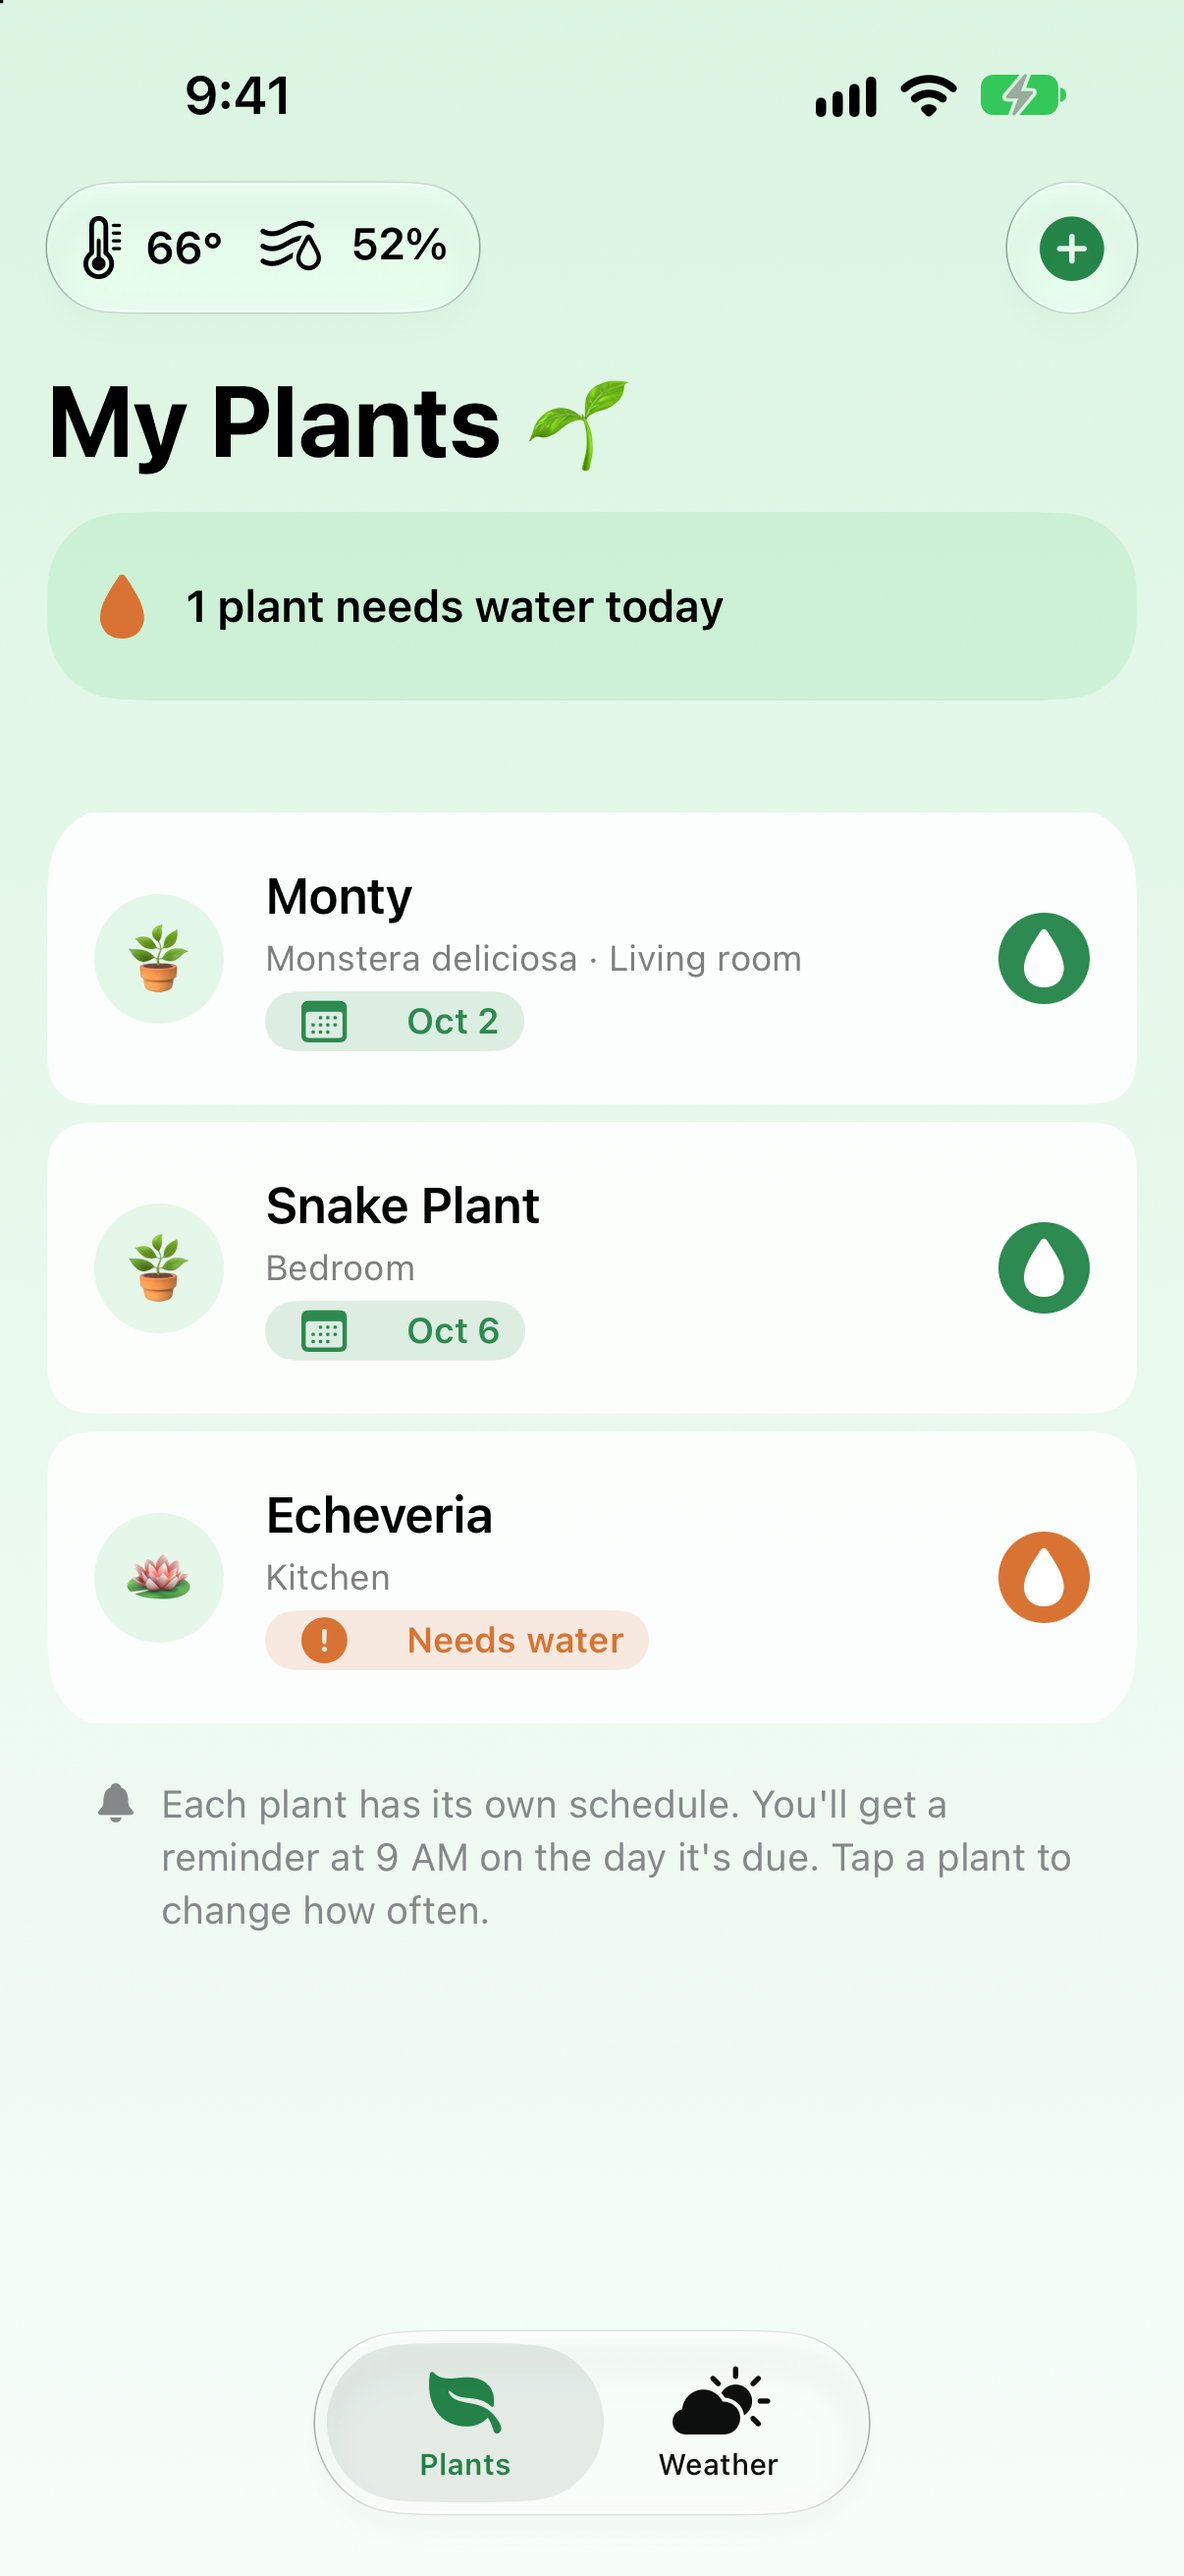
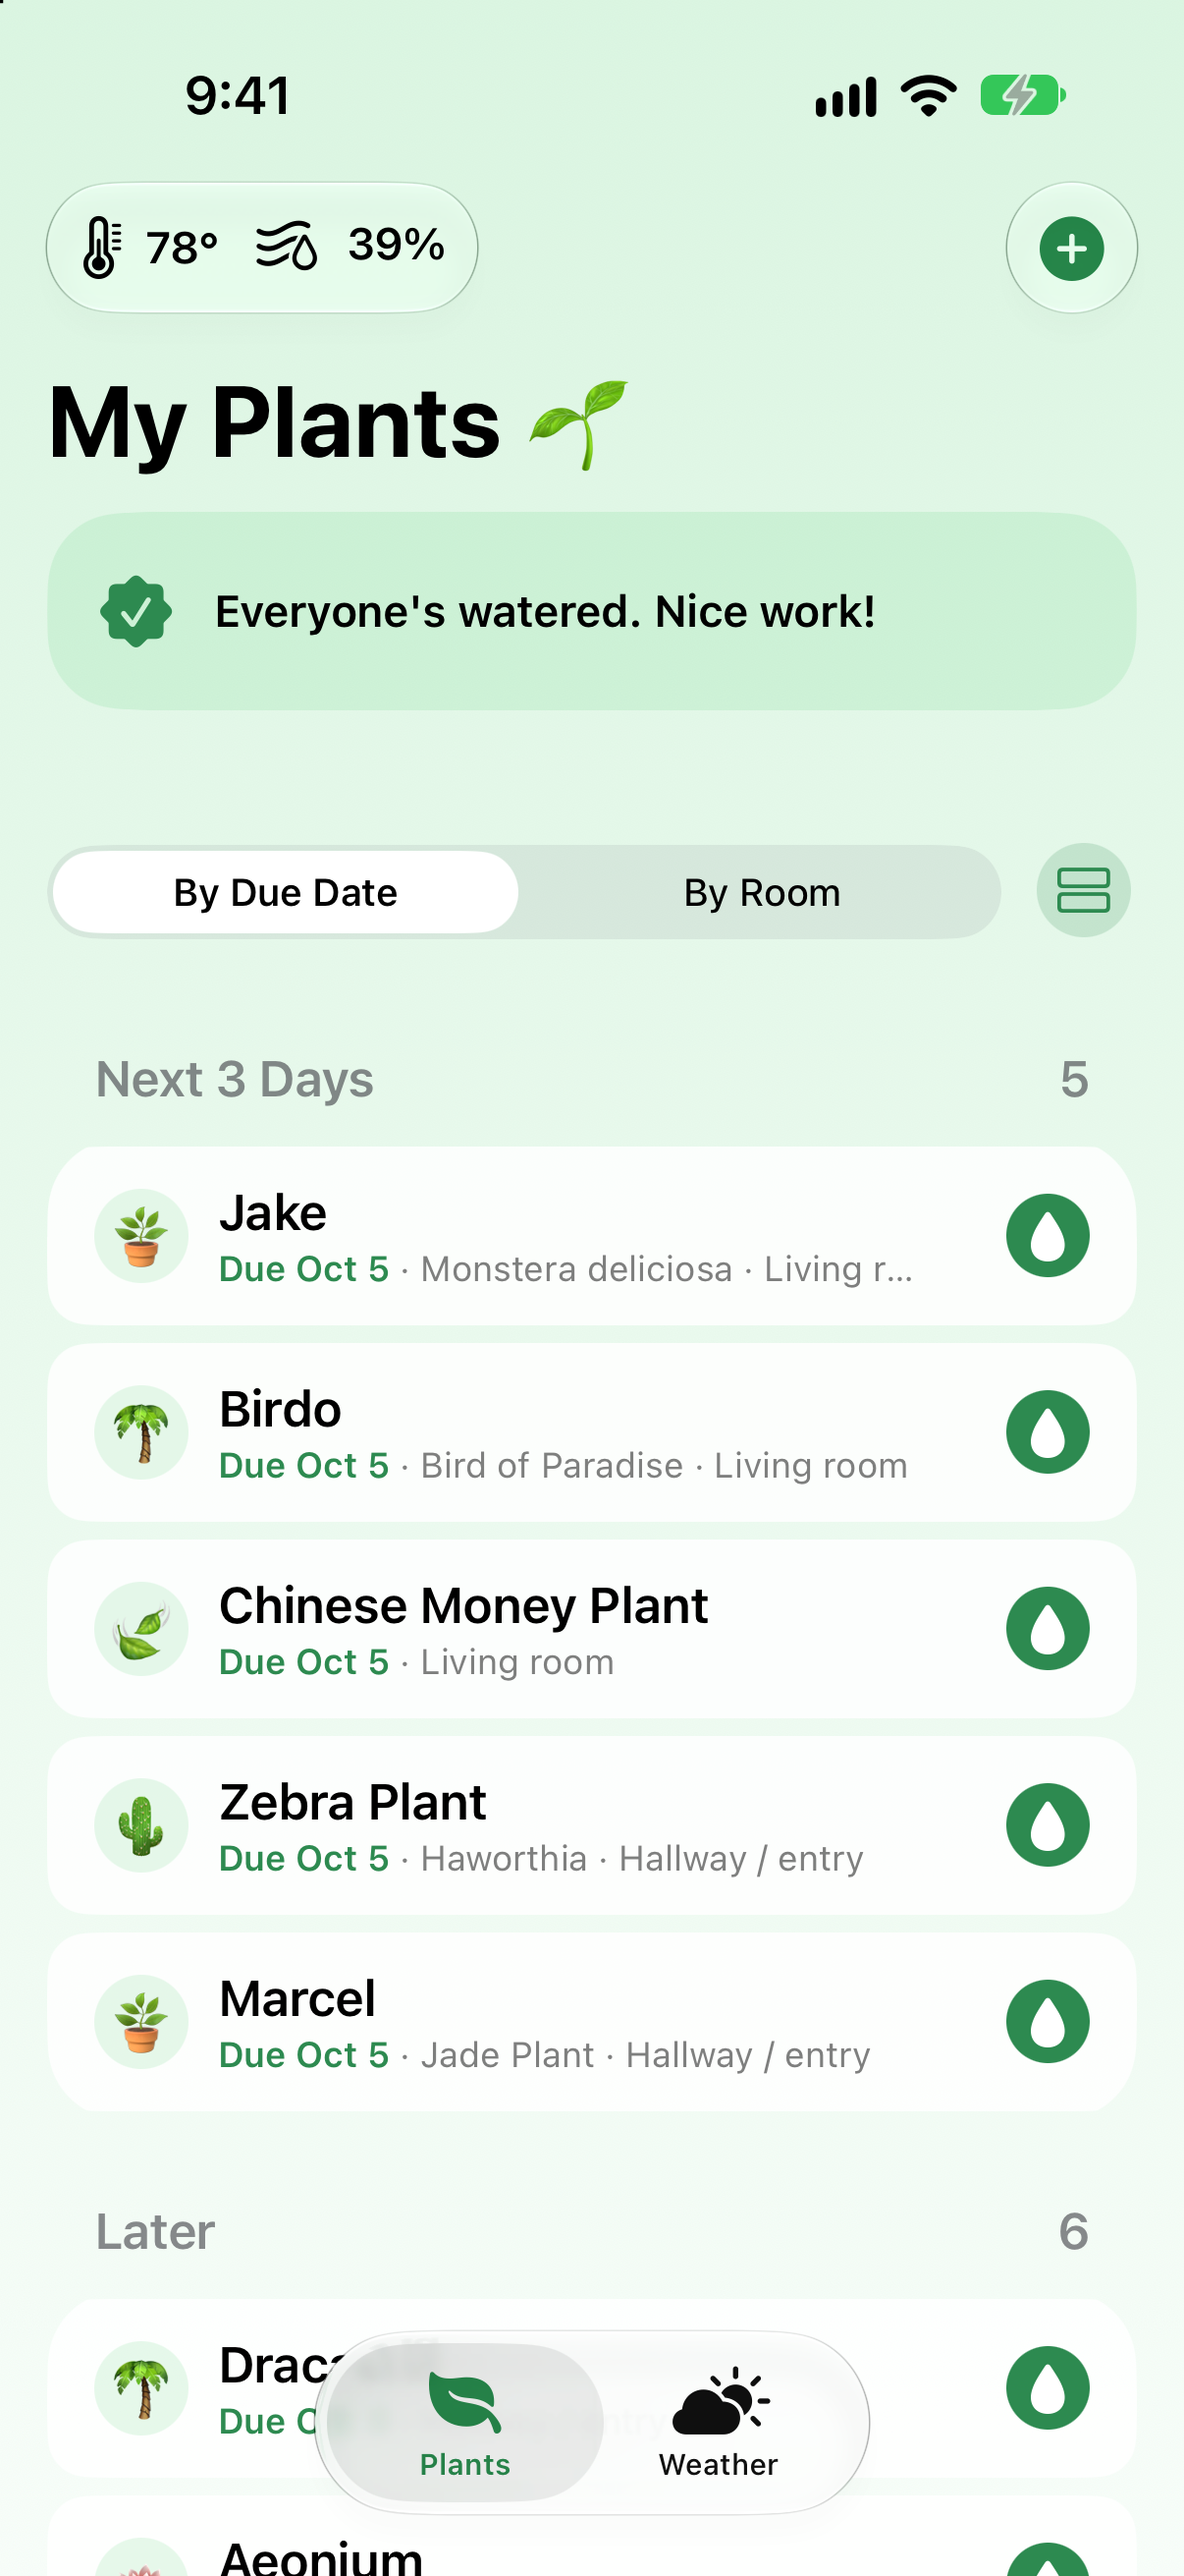
Replace README screenshots with the current app
- New screenshots: plant list, Add Plant with photo, plant search,
  Plant Health, and Weather
- Remove the outdated screenshots from September

diff --git a/README.md b/README.md
@@ -7,10 +7,11 @@ A simple iPhone app for tracking houseplants and when they need water. Built wit
 ## Screenshots
 
 <p>
-  <img src="screenshots/plants.png" width="200" alt="Plant list with watering status and current weather">
-  <img src="screenshots/edit-plant.png" width="200" alt="Form for editing a plant">
-  <img src="screenshots/plant-types.png" width="200" alt="Plant type picker grouped by category">
-  <img src="screenshots/weather.png" width="200" alt="Weather tab with a map and 7-day forecast">
+  <img src="screenshots/plants.png" width="160" alt="My Plants list grouped by due date">
+  <img src="screenshots/add-plant-photo.png" width="160" alt="Add Plant form with a photo and privacy note">
+  <img src="screenshots/plant-search.png" width="160" alt="Searching the plant type list for ferns">
+  <img src="screenshots/plant-health.png" width="160" alt="Plant Health results for yellow leaves">
+  <img src="screenshots/weather.png" width="160" alt="Weather tab with map and 7-day forecast">
 </p>
 
 ## Features
